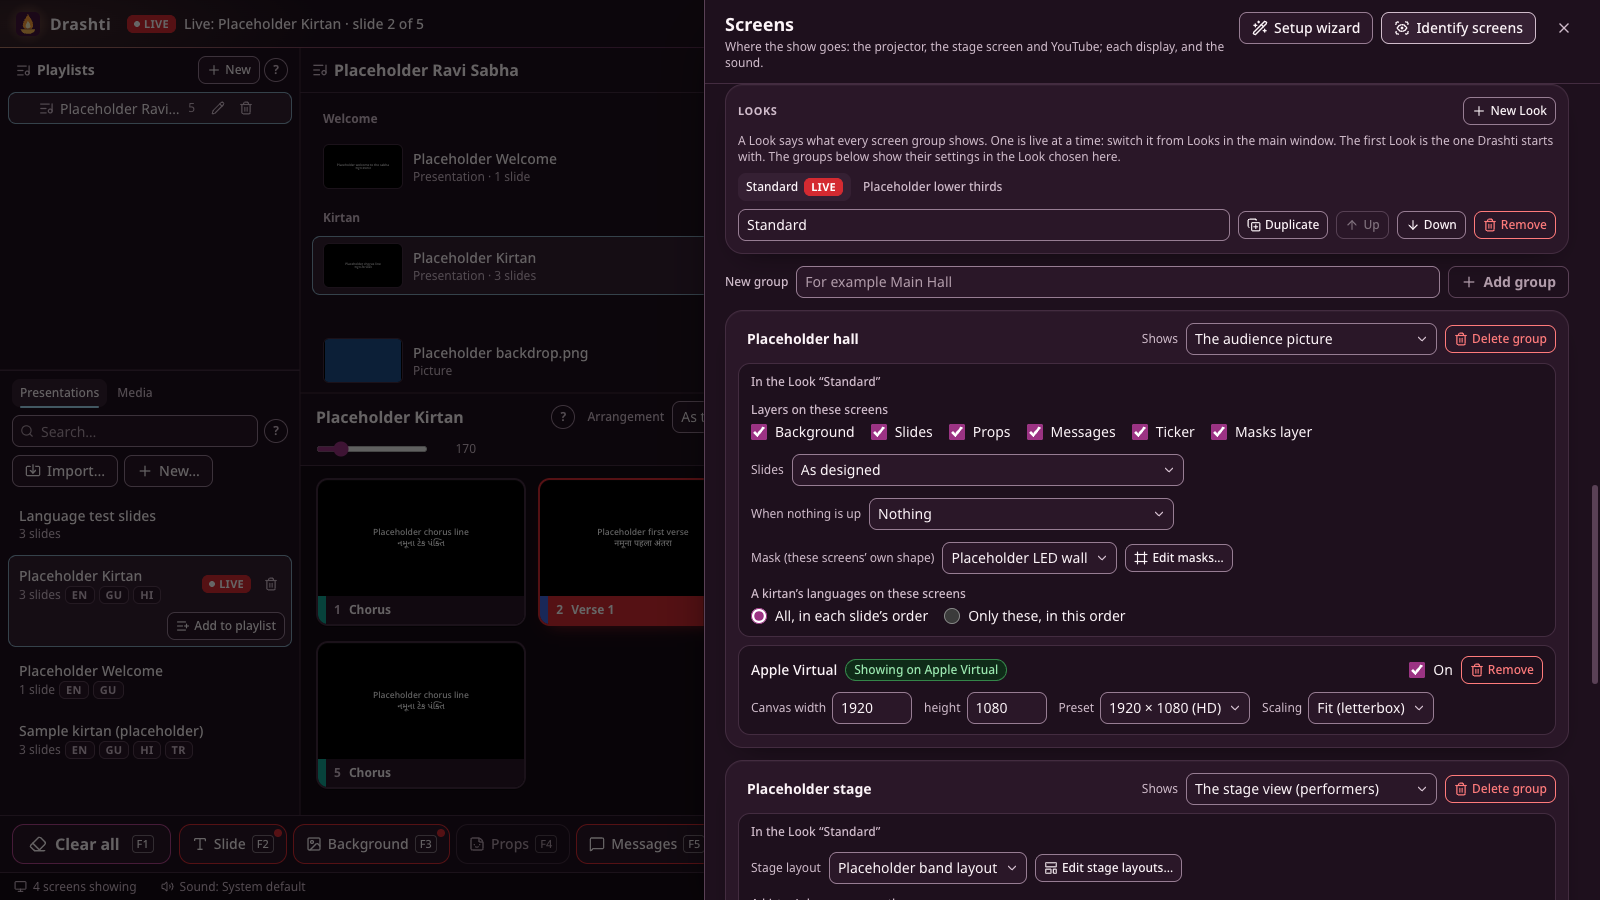
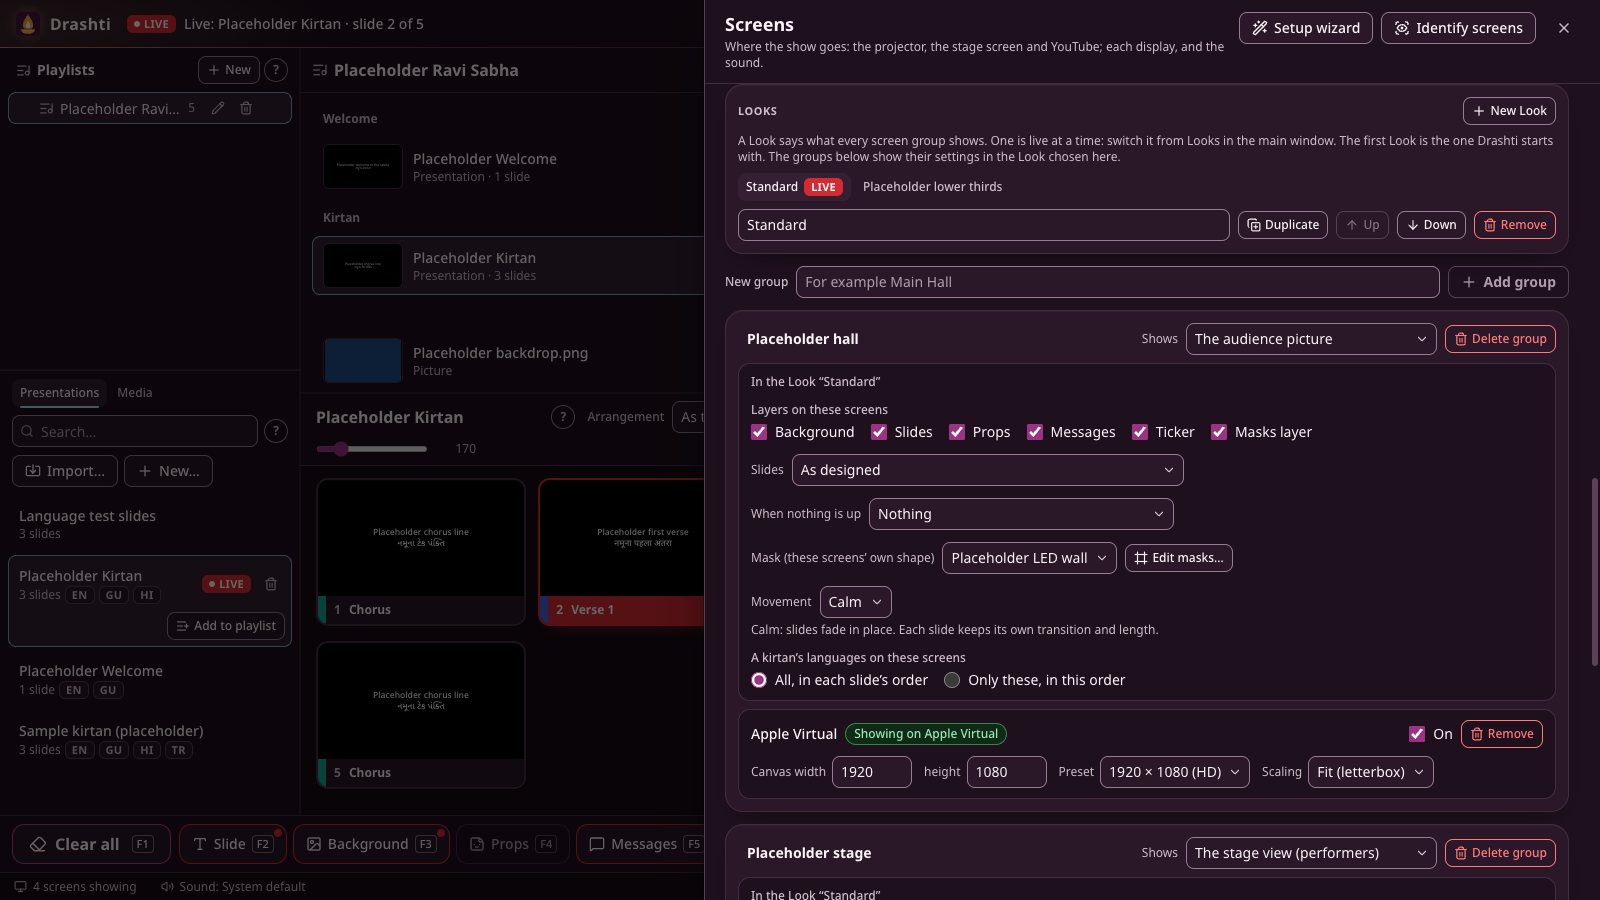
Screenshots of a Look's Movement, Keep editing first while live, and a stopped screen's notice; the warm-up test looks 2 px inside the LIVE picture (Session 27 step 11)
- From CI's screenshots run 38771422920 (macOS): screens-looks.png (Movement), keep-changes.png
  (Session 26h step 2), screen-stopped-notice.png (new, in the admin guide).
- Windows CI read 90 in the LIVE picture's crop: its border (#5a4156), taken in by a box at
  fractions of a pixel. The crop is now 2 px in from the edges.

Changed region(s): [[0.4688, 0.6533, 0.9688, 1.0]]

diff --git a/tests/e2e/warm-up.spec.ts b/tests/e2e/warm-up.spec.ts
@@ -15,9 +15,13 @@ import { goLive, makeSlides } from './placeholder-slides';
 
 const HOLD = { DRASHTI_TEST_HOLD_WARM_UP: '1' };
 
-/** The brightest any pixel is (0 to 255, any channel) in a page's screenshot, or in one element's box of it. */
+/**
+ * The brightest any pixel is (0 to 255, any channel) in a page's screenshot, or in one element's box of it,
+ * 2 px in from its edges (a box at fractions of a pixel takes in what is around it: the LIVE picture's border).
+ */
 async function brightest(page: Page, selector?: string): Promise<number> {
-  const clip = selector ? await page.locator(selector).first().boundingBox() : null;
+  const box = selector ? await page.locator(selector).first().boundingBox() : null;
+  const clip = box ? { x: box.x + 2, y: box.y + 2, width: box.width - 4, height: box.height - 4 } : null;
   const png = (await page.screenshot({ scale: 'css', ...(clip ? { clip } : {}) })).toString('base64');
   return page.evaluate(async (png) => {
     // Decoded by hand: the page's security policy refuses fetch() of a data URL.

diff --git a/docs/admin-guide.md b/docs/admin-guide.md
@@ -149,6 +149,8 @@ Section 8 of `docs/parallel-run.md` has the steps: on the second computer choose
 
 **A screen that says Stopped.** If one output keeps failing (more than 5 times in a minute), Drashti stops trying for a moment: that screen is black, the status line at the bottom says "1 stopped", Screens shows **Stopped**, and a red notice at the top of the operator window names the screen (in Simple Mode too; never over the show controls). Drashti tries it again by itself after 2 minutes, then every 10 minutes; **Try again** on the notice or in Screens tries at once (the notice's works for a volunteer and in Simple Mode: it changes nothing but brings the screen back). The other screens are not affected. If it keeps happening, save diagnostics and fall back for that screen.
 
+![A stopped screen's notice at the top of the window](screenshots/screen-stopped-notice.png)
+
 **When a file Drashti keeps cannot be read** (a damaged disk, a file cut short). Drashti never takes it for a missing file and never writes over it: it tries once more, then keeps the file aside in its data folder with the date in its name (for example `identity.unreadable-2026-10-10 05-36.json`), and says what it did:
 
 - **Main's identity for its nodes** (`node-link/identity.json`): every paired node checks it, so Drashti does not make a new one by itself. A note says so when Drashti starts, nothing follows Main, and **Screens** says "The nodes cannot follow this computer". An admin presses **Make a new identity…** there; then pair each node again (on the node, **Unpair…**, then a new code from Main).
